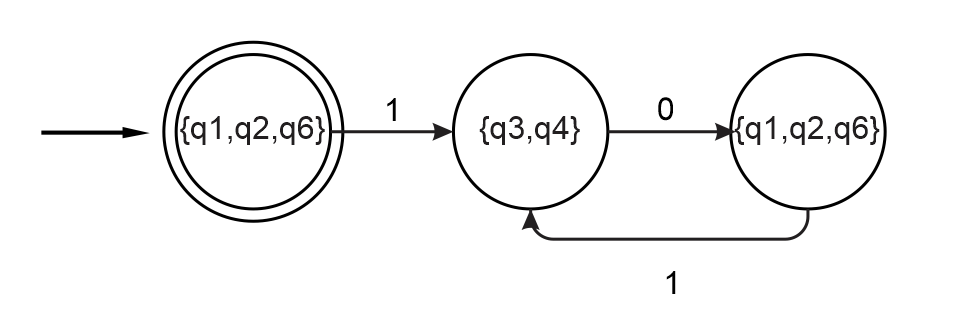
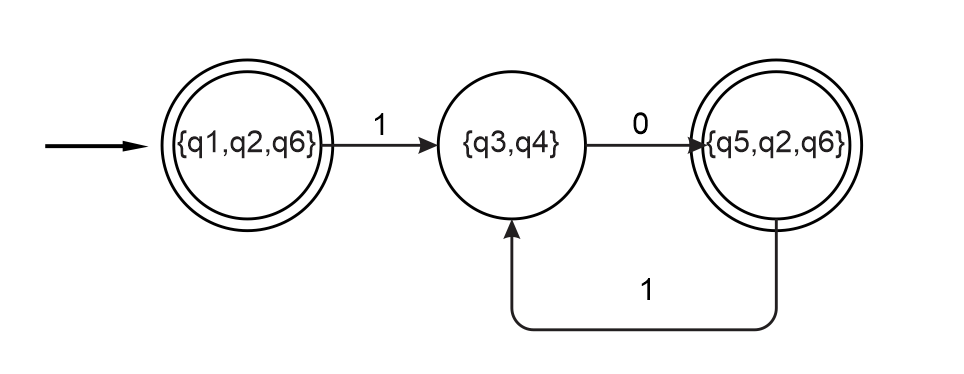
Implementação da Q5

Changed region(s): [[0.0311, 0.115, 0.9025, 0.9201]]

diff --git a/LFA/ENFAQuestaoCinco.java b/LFA/ENFAQuestaoCinco.java
@@ -7,10 +7,10 @@ import java.util.TreeSet;
 //F = q2
 //Alfabeto = {0,1}
 //-----------------------
-//|		|	0	|	1	|
-//|->q0	|{q0,q1}|	{q0}|
-//|q1	|{}		|	{q2}|
-//|*q2	|{}		|	{}	|
+//|				|	0		|	1		|
+//|->{q1,q2,q6}	|{}			|{q3,q4}	|
+//|{q3,q4}		|{q5,q2,q6}}|{q2}		|
+//|*{q5,q2,q6}	|{}			|{q3,q4}	|
 //-----------------------
 // ->q0
 // q1
@@ -18,13 +18,15 @@ import java.util.TreeSet;
 
 
 
-public class ENFAParalelo {
+public class ENFAQuestaoCinco {
 	//Q = {q0, q1, q2}
 	//Alfabeto = {0,1}
 	
-	static int[][][] transicao = {	{{1},{},{1}},
-									{{},{2},{2}},
-									{{},{},{}}};
+	static int[][][] transicao = {	{{},{},{1}},
+									{{},{2},{}},
+									{{},{},{1}}
+								 };
+	
 	static int[][] transicaoVazia = {{},{0},{0}};
 	static int estadoInicial = 0;
 	static int [] aceitacao = {0};
@@ -74,6 +76,8 @@ public class ENFAParalelo {
 			int[] ecloseAux2 = eclose(ecloseAux);
 			eclose = uniao(eclose, ecloseAux);
 			eclose = uniao(eclose, ecloseAux2);
+			
+			
 		}
 		return eclose;
 	}
